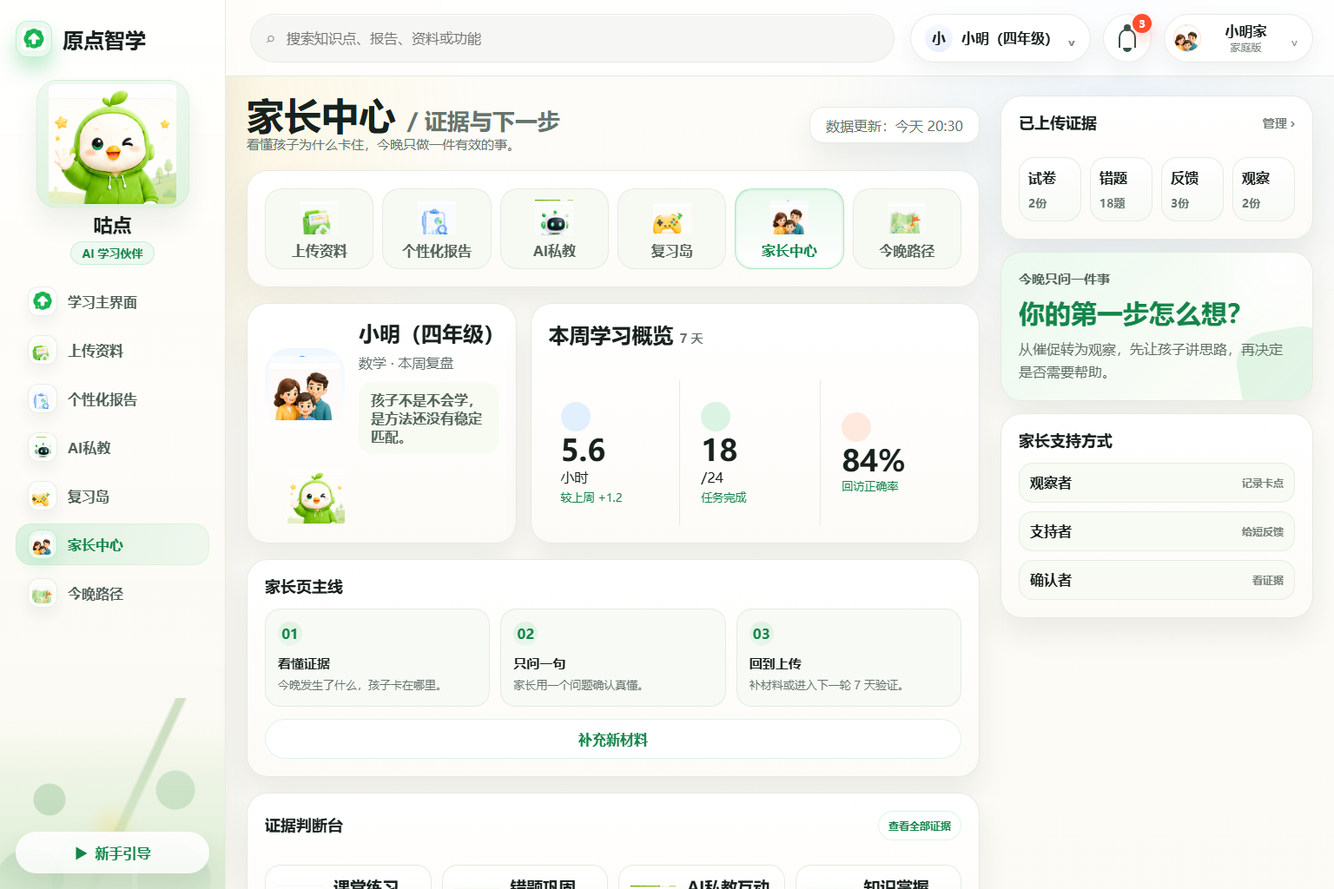
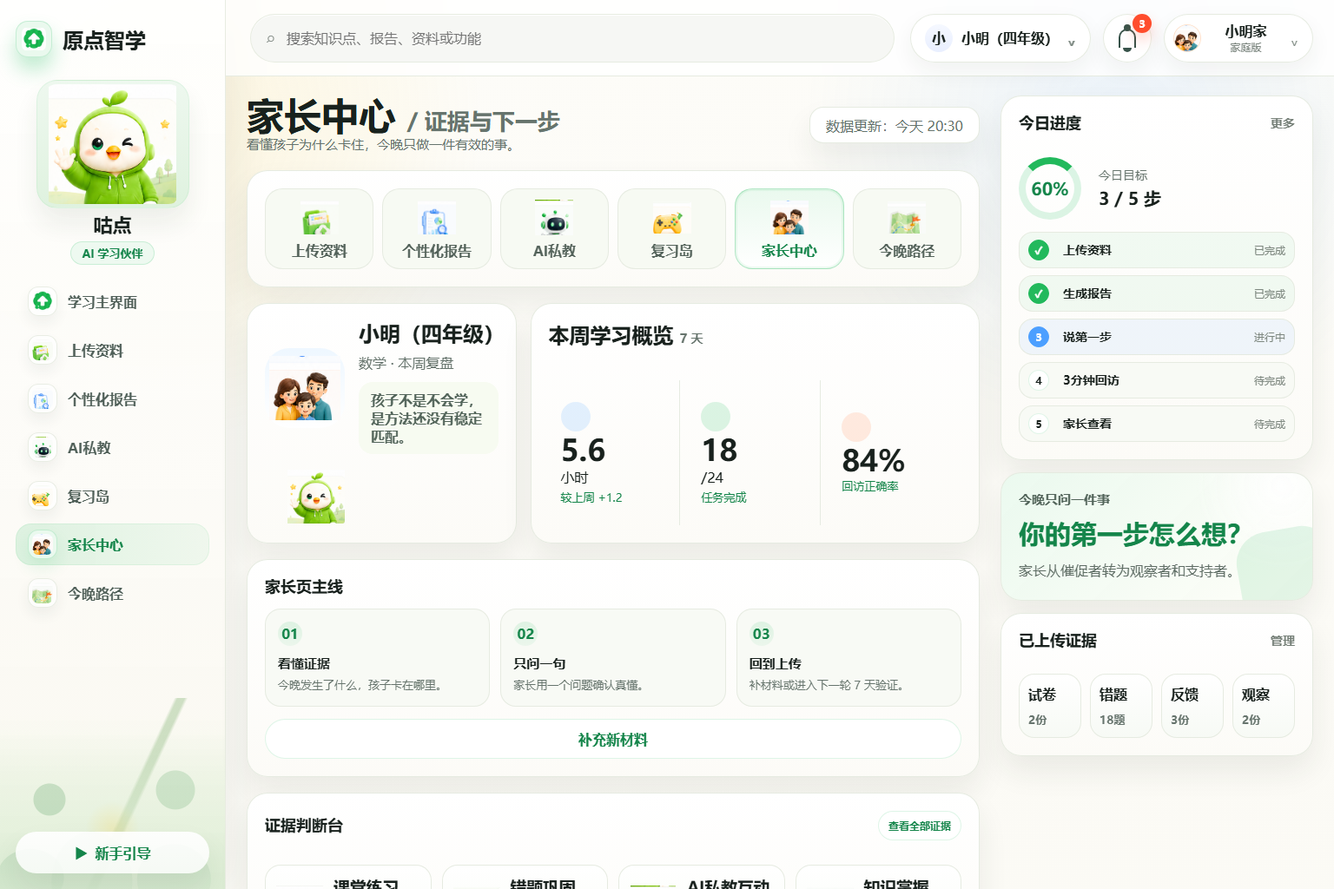
Restore web app Chinese surface

diff --git a/apps/web/src/app.js b/apps/web/src/app.js
@@ -8,7 +8,6 @@ import {
 } from './view-model.js';
 
 const assetBase = document.querySelector('meta[name="web-app-asset-base"]')?.content || './assets/brand';
-const asset = (name) => `${assetBase.replace(/\/$/, '')}/${name}`;
 const referenceAsset = (name) => `${assetBase.replace(/\/brand\/?$/, '/reference').replace(/\/$/, '')}/${name}`;
 
 const routes = [
@@ -28,7 +27,7 @@ const mobileLabels = {
   tutor: '私教',
   review: '复习',
   parent: '家长',
-  map: '地图'
+  map: '路径'
 };
 
 const state = {
@@ -50,7 +49,7 @@ function setActive(id) {
 function routeForSearch(value) {
   const text = String(value || '').toLowerCase();
   if (/上传|资料|文件|错题|成绩|测评|pdf|照片/.test(text)) return 'upload';
-  if (/报告|分析|天赋|学习画像|导出/.test(text)) return 'report';
+  if (/报告|分析|天赋|画像|导出/.test(text)) return 'report';
   if (/私教|ai|答疑|第一步|苏格拉底|追问/.test(text)) return 'tutor';
   if (/复习|游戏|回访|挑战|变式|记忆/.test(text)) return 'review';
   if (/家长|家庭|父母|证据|今晚问什么/.test(text)) return 'parent';
@@ -99,7 +98,7 @@ function sceneSwitch(activeId) {
 function rightRail() {
   const progressCard = `
     <article class="rail-card rail-progress">
-      <div class="card-head"><h3>今日进度</h3><a href="#parent">更多 ›</a></div>
+      <div class="card-head"><h3>今日进度</h3><a href="#parent">更多</a></div>
       <div class="progress-summary"><div class="ring"><b>60%</b></div><div><span>今日目标</span><strong>3 / 5 步</strong></div></div>
       <ol class="step-list">
         ${state.progress.map((item, index) => `<li class="${item.done ? 'done' : item.active ? 'active' : 'todo'}"><span>${item.done ? '✓' : index + 1}</span><b>${item.label}</b><em>${item.done ? '已完成' : item.active ? '进行中' : '待完成'}</em></li>`).join('')}
@@ -107,41 +106,31 @@ function rightRail() {
     </article>`;
   const evidenceCard = `
     <article class="rail-card rail-evidence-card">
-      <div class="card-head"><h3>已上传证据</h3><a href="#upload">管理 ›</a></div>
+      <div class="card-head"><h3>已上传证据</h3><a href="#upload">管理</a></div>
       <div class="evidence-strip"><span>试卷<small>2份</small></span><span>错题<small>18题</small></span><span>反馈<small>3份</small></span><span>观察<small>2份</small></span></div>
     </article>`;
-
-  const rails = {
-    upload: `${progressCard}
-      <article class="rail-card rail-focus-card green"><b>资料完整度</b><strong>75%</strong><p>成绩、错题和测评已具备，可以生成报告；补充老师反馈后置信度更高。</p></article>
-      <article class="rail-card"><h3>分类优先级</h3><div class="rail-list"><span>天赋测评 <em>画像起点</em></span><span>成绩单 <em>真实表现</em></span><span>错题照片 <em>卡点证据</em></span></div></article>`,
-    report: `${evidenceCard}
-      <article class="rail-card rail-focus-card blue"><b>报告可信度</b><strong>较高</strong><p>测评只做假设，成绩和错题负责交叉验证，避免把标签当定论。</p></article>
-      <article class="rail-card"><h3>方法匹配</h3><div class="rail-tags"><span>费曼复述</span><span>苏格拉底追问</span><span>错因归因</span><span>变式训练</span></div></article>`,
-    tutor: `<article class="rail-card rail-focus-card orange"><b>本题关联弱点</b><strong>多步计算顺序</strong><p>合并同类数量时容易遗漏或重复，先说第一步比直接算答案更重要。</p></article>
-      <article class="rail-card"><h3>提示边界</h3><div class="rail-list"><span>不代写答案 <em>只追问下一步</em></span><span>记录卡点 <em>回流复习</em></span></div></article>`,
-    review: `${progressCard}
-      <article class="rail-card rail-focus-card yellow"><b>今日挑战</b><strong>12 个知识点</strong><p>只奖励真实回忆和迁移，不奖励机械刷题。</p></article>
-      <article class="rail-card"><h3>复习覆盖点</h3><div class="rail-tags"><span>主动回忆</span><span>小变式</span><span>错因复盘</span><span>家长确认</span></div></article>`,
-    parent: `${evidenceCard}
-      <article class="rail-card rail-focus-card green"><b>今晚只问一件事</b><strong>你的第一步怎么想？</strong><p>从催促转为观察，先让孩子讲思路，再决定是否需要帮助。</p></article>
-      <article class="rail-card"><h3>家长支持方式</h3><div class="rail-list"><span>观察者 <em>记录卡点</em></span><span>支持者 <em>给短反馈</em></span><span>确认者 <em>看证据</em></span></div></article>`,
-    map: `${progressCard}
-      <article class="rail-card rail-focus-card blue"><b>本周路径</b><strong>3 / 6</strong><p>当前停在 AI 点拨，完成后进入复习回访和家长复盘。</p></article>
-      <article class="rail-card"><h3>未来 7 天</h3><div class="rail-list"><span>明天 <em>复习回访</em></span><span>第 3 天 <em>薄弱专项</em></span><span>第 7 天 <em>家长复盘</em></span></div></article>`
-  };
-
-  return rails[state.active] || `${progressCard}${evidenceCard}
-    <article class="rail-card"><h3>连续学习</h3><div class="streak"><strong>7</strong><span>天</span><p>保持短周期反馈，孩子会更愿意继续。</p></div></article>
-    <article class="rail-card warm"><h3>家长小提醒</h3><p>今晚不要追问分数，先问：这道题你读懂了什么？需要我帮你检查哪里？</p></article>`;
+  const focus = {
+    upload: ['资料完整度', '75%', '成绩、错题和测评已具备；补充老师反馈后置信度更高。', 'green'],
+    report: ['报告可信度', '较高', '测评只做假设，成绩和错题负责交叉验证。', 'blue'],
+    tutor: ['本题关联弱点', '多步计算顺序', '先让孩子说第一步，比直接算答案更重要。', 'orange'],
+    review: ['今日挑战', '12 个知识点', '只奖励真实回忆和迁移，不鼓励机械刷题。', 'yellow'],
+    parent: ['今晚只问一件事', '你的第一步怎么想？', '家长从催促者转为观察者和支持者。', 'green'],
+    map: ['本周路径', '3 / 6', '当前停在 AI 点拨，完成后进入复习回访和家长复盘。', 'blue']
+  }[state.active];
+  if (!focus) {
+    return `${progressCard}${evidenceCard}
+      <article class="rail-card"><h3>连续学习</h3><div class="streak"><strong>7</strong><span>天</span><p>保持短周期反馈，孩子会更愿意继续。</p></div></article>
+      <article class="rail-card warm"><h3>家长小提醒</h3><p>今晚不要追问分数，先问：这道题你读懂了什么？需要我帮你检查哪里？</p></article>`;
+  }
+  return `${progressCard}<article class="rail-card rail-focus-card ${focus[3]}"><b>${focus[0]}</b><strong>${focus[1]}</strong><p>${focus[2]}</p></article>${evidenceCard}`;
 }
 
 function renderHome() {
   return `
-    <section class="page-title home-title-row"><h1>今晚从哪一步开始？</h1><a href="#report">查看完整报告 ›</a></section>
+    <section class="page-title home-title-row"><h1>今晚从哪一步开始？</h1><a href="#report">查看完整报告</a></section>
     <section class="hero-grid">
-      <article class="buddy-message card"><div class="speech"><h1 class="mobile-hero-title">今晚先做哪一步？</h1><h2>晚上好，小明！</h2><p>今天坚持学习，就能离目标更近一步。</p><div class="chip-row"><span><i class="chip-dot"></i>连续学习 7 天</span><span>今晚 15-20 分钟</span></div></div><img class="mascot-img hero-avatar" src="${referenceAsset('hero-mascot.png')}" alt="咕点"></article>
-      <article class="report-preview card"><div class="card-head"><h3>个性化报告 <small>预览</small></h3><a href="#report">查看 ›</a></div><div class="preview-body"><div class="mini-radar"><span>知识掌握</span><span>思维能力</span><span>学习习惯</span><span>学习动力</span><span>应用迁移</span><span>基础技能</span><div class="radar-shape"></div></div><div class="tag-column"><b>优势</b><span>逻辑思维强</span><span>阅读理解好</span><b class="danger">待提升</b><span class="orange">计算准确率</span><span class="orange">审题习惯</span><p>下一步：先巩固计算准确率，3 天后回访。</p></div></div></article>
+      <article class="buddy-message card"><div class="speech"><h1 class="mobile-hero-title">今晚先做哪一步？</h1><h2>晚上好，小明</h2><p>今天不用把所有信息摊开，只先找到最有效的一小步。</p><div class="chip-row"><span><i class="chip-dot"></i>连续学习 7 天</span><span>今晚 15-20 分钟</span></div></div><img class="mascot-img hero-avatar" src="${referenceAsset('hero-mascot.png')}" alt="咕点"></article>
+      <article class="report-preview card"><div class="card-head"><h3>个性化报告 <small>预览</small></h3><a href="#report">查看</a></div><div class="preview-body"><div class="mini-radar"><span>知识掌握</span><span>思维能力</span><span>学习习惯</span><span>学习动力</span><span>应用迁移</span><span>基础技能</span><div class="radar-shape"></div></div><div class="tag-column"><b>优势</b><span>逻辑思维强</span><span>阅读理解好</span><b class="danger">待提升</b><span class="orange">计算准确率</span><span class="orange">审题习惯</span><p>下一步：先巩固计算准确率，3 天后回访。</p></div></div></article>
     </section>
     <section class="entry-grid">
       ${WEB_ENTRY_CARDS.map((card) => `<button class="entry-card ${card.tone}" type="button" data-route="${card.id}"><img class="entry-visual" src="${referenceAsset(card.image)}" alt=""><div class="entry-copy"><strong>${card.number}</strong><h2>${card.title}</h2><p>${card.desc}</p></div><span class="jump">›</span></button>`).join('')}
@@ -152,11 +141,11 @@ function renderHome() {
 
 function renderUpload() {
   const materialTypes = [
-    ['天赋测评', '皮纹、多元智能、学习风格，用来形成初始画像。', 'entry-report.png', 'green'],
-    ['成绩单', '总分、单科、排名和趋势，用来交叉验证。', 'entry-upload.png', 'blue'],
-    ['错题照片', '识别概念错、条件漏、模型错、计算错。', 'entry-review.png', 'orange'],
-    ['学校反馈', '补充课堂状态、表达习惯和作业过程。', 'entry-parent.png', 'green'],
-    ['家长观察', '记录动力、注意力、亲子沟通与作息。', 'hero-mascot.png', 'yellow']
+    ['天赋测评', '形成学习画像起点，不当作命运定论。', 'entry-report.png', 'green'],
+    ['成绩单', '用真实表现验证学科优先级。', 'entry-upload.png', 'blue'],
+    ['错题照片', '定位概念错、条件漏、模型错、计算错。', 'entry-review.png', 'orange'],
+    ['学校反馈', '补充课堂状态和作业过程。', 'entry-parent.png', 'green'],
+    ['家长观察', '记录动力、注意力、亲子沟通和作息。', 'hero-mascot.png', 'yellow']
   ];
   return `
     <section class="page-title"><div><h1>上传资料</h1><p>先把测评、成绩、错题和观察分清楚，后续报告才有可信证据链。</p></div><button class="soft-button" data-action="mock-upload">选择文件</button></section>
@@ -164,35 +153,34 @@ function renderUpload() {
     <section class="upload-console"><article class="upload-drop card"><div><h2>拖拽文件到这里，或点击选择文件</h2><p>支持多文件同时上传。无法解析的材料会进入人工确认，不中断生成流程。</p><div class="upload-format-row"><span>图片<small>JPG / PNG</small></span><span>PDF<small>测评报告</small></span><span>Word<small>老师反馈</small></span><span>Excel<small>成绩表</small></span></div><button class="primary-cta" data-action="mock-upload">选择文件</button><em>也可以先粘贴文字摘要。</em></div><img class="upload-art-img" src="${referenceAsset('entry-upload.png')}" alt="上传资料"></article></section>
     ${pageGuide('upload')}
     <section><div class="section-title"><h2>选择资料类型 <small>可多选</small></h2><p>分类越准，报告里的证据来源越清晰。</p></div><div class="type-grid upload-type-row">${materialTypes.map(([title, desc, image, tone]) => `<button class="type-card visual ${tone}" data-action="select-material"><img src="${referenceAsset(image)}" alt=""><b>${title}</b><span>${desc}</span></button>`).join('')}</div></section>
-    <section class="card table-card"><div class="card-head"><h3>最近上传的资料</h3><a href="#report">查看报告 ›</a></div>${state.uploads.map((item) => `<div class="upload-row"><b>${item.file}<small>${item.size}</small></b><em>${item.type}</em><strong>${item.status}</strong><button data-route="report">查看</button></div>`).join('')}</section>
+    <section class="card table-card"><div class="card-head"><h3>最近上传的资料</h3><a href="#report">查看报告</a></div>${state.uploads.map((item) => `<div class="upload-row"><b>${item.file}<small>${item.size}</small></b><em>${item.type}</em><strong>${item.status}</strong><button data-route="report">查看</button></div>`).join('')}</section>
     <section class="intake-pipeline card"><h2>上传后的标准 SOP</h2><div class="guide-steps">${WEB_MATERIAL_PIPELINE.map(([title, desc], index) => `<div><i>${index + 1}</i><b>${title}</b><p>${desc}</p></div>`).join('')}</div></section>
   `;
 }
 
 function renderReport() {
   const evidence = [
-    ['成绩单', '数学单元测验 82 分', '逻辑推理题得分率高，计算题仍有失分。', 'green'],
+    ['成绩单', '数学单元测验 82 分', '推理题得分高，计算题仍有失分。', 'green'],
     ['错题本', '条件漏读 12 道', '失分集中在审题、单位和步骤表达。', 'orange'],
-    ['老师反馈', '课堂表达积极', '能主动提问，思路清晰，适合讲出来学。', 'green'],
-    ['家长观察', '短任务完成稳定', '长任务需要可见进度和短反馈。', 'blue']
+    ['老师反馈', '课堂表达积极', '能主动提问，适合讲出来学。', 'green'],
+    ['家长观察', '短任务稳定', '长任务需要可见进度和短反馈。', 'blue']
   ];
   return `
-    <section class="page-title report-title"><div><h1>个性化报告</h1><p>先看证据，再看天赋、成绩与方法如何匹配。</p></div><button class="soft-button" data-action="print-report">下载 PDF 报告</button></section>
+    <section class="page-title report-title"><div><h1>个性化报告</h1><p>先看证据，再看天赋、成绩与学习方法如何匹配。</p></div><button class="soft-button" data-action="print-report">下载 PDF 报告</button></section>
     ${sceneSwitch('report')}
-    <section class="report-hero pro card"><article class="student-id-card"><div class="student-avatar"><span>小</span></div><div><h2>小明（四年级）</h2><p>原点智学样例档案</p><div class="report-meta"><span>学习时长 <b>4.2</b> 小时/天</span><span>报告周期 <b>7 天</b></span><span>资料来源 <b>12</b> 项</span></div></div><img src="${referenceAsset('entry-report.png')}" alt="报告预览"></article><article class="ability-panel"><div class="card-head"><h3>能力雷达图</h3><span>本周水平</span></div><div class="radar-with-labels"><span>知识掌握</span><span>思维能力</span><span>学习习惯</span><span>学习动力</span><span>应用迁移</span><span>基础技能</span><div class="radar-shape strong"></div></div></article></section>
+    <section class="report-hero pro card"><article class="student-id-card"><div class="student-avatar"><span>小</span></div><div><h2>小明（四年级）</h2><p>原点智学样例档案</p><div class="report-meta"><span>学习时长 <b>4.2</b> 小时/天</span><span>报告周期 <b>7</b> 天</span><span>资料来源 <b>12</b> 项</span></div></div><img src="${referenceAsset('entry-report.png')}" alt="报告预览"></article><article class="ability-panel"><div class="card-head"><h3>能力雷达图</h3><span>本周水平</span></div><div class="radar-with-labels"><span>知识掌握</span><span>思维能力</span><span>学习习惯</span><span>学习动力</span><span>应用迁移</span><span>基础技能</span><div class="radar-shape strong"></div></div></article></section>
+    <section class="evidence-band card"><div class="card-head"><h3>证据来源与置信度</h3><button class="soft-button mini" data-action="share-report">分享给家长</button></div><div class="evidence-band-grid">${evidence.map(([title, score, note, tone]) => `<article class="${tone}"><b>${title}</b><strong>${score}</strong><p>${note}</p></article>`).join('')}</div></section>
+    <section class="confidence-board card"><h2>置信度边界</h2><div class="confidence-grid">${WEB_CONFIDENCE_BANDS.map(([title, source, rule]) => `<article><b>${title}</b><span>${source}</span><p>${rule}</p></article>`).join('')}</div></section>
+    <section class="diagnostic-grid">${['听觉复述', '费曼学习法', '苏格拉底追问', '错因归因', '变式训练', '短周期反馈'].map((method, index) => `<article class="diagnostic-card card"><strong>${method}</strong><p>${index < 3 ? '匹配孩子当前优势，用输出验证理解。' : '补偿当前待开发点，用证据验证是否有效。'}</p><button class="soft-button mini" data-route="${index === 2 ? 'tutor' : 'review'}">去执行</button></article>`).join('')}</section>
     ${pageGuide('report')}
-    <section class="report-insight card"><div><h2>思维活跃、表达清晰，逻辑推理是闪光点。</h2><p>当前成绩没有完全兑现潜力，主要原因不是“不适合学”，而是方法还没有稳定匹配：审题和步骤表达需要用复述、追问和变式来补偿。</p></div><img src="${referenceAsset('hero-mascot.png')}" alt="咕点鼓励"></section>
-    <section class="evidence-band card"><div class="section-title compact"><h2>证据来源</h2><p>测评是画像起点，不是命运定论；真实成绩和错题优先级更高。</p></div><div class="evidence-band-grid">${evidence.map(([label, title, desc, tone]) => `<article class="${tone}"><b>${label}</b><strong>${title}</strong><p>${desc}</p></article>`).join('')}</div></section>
-    <section class="confidence-board card"><h2>置信度分层</h2><div class="guide-steps">${WEB_CONFIDENCE_BANDS.map(([title, source, desc], index) => `<div><i>${index + 1}</i><b>${title}</b><p>${source}：${desc}</p></div>`).join('')}</div></section>
-    <section class="method-match card pro"><div><h2>天赋 × 成绩 × 方法</h2><p>听觉理解较好、表达积极，但计算和审题有波动，因此优先采用“听讲复述 + 苏格拉底追问 + 错因归因 + 小变式”。</p></div><div class="match-flow"><span>听觉理解好</span><i></i><span>数学波动</span><i></i><span>条件漏读</span><i></i><span>复述 + 追问</span></div><button class="primary-cta" data-action="share-report">分享报告</button></section>
   `;
 }
 
 function renderTutor() {
   return `
-    <section class="page-title tutor-title"><div><h1>AI私教 <small>/ 先说第一步</small></h1><p>不直接给答案，先追问、再引导，让孩子把思路讲出来。</p></div></section>
+    <section class="page-title"><div><h1>AI私教</h1><p>只追问第一步、依据和反例，不代写完整答案。</p></div><button class="soft-button" data-route="review">去复习岛</button></section>
     ${sceneSwitch('tutor')}
-    <section class="tutor-lab"><article class="chat-card tutor-chat card"><div class="chat-head"><img class="chat-avatar" src="${referenceAsset('hero-mascot.png')}" alt="咕点"><div><h2>咕点</h2><p>像朋友一样陪你想，不替你写答案。</p></div><span>AI</span></div><div class="bubble coach">遇到难题很正常。先说说：你准备从哪一步开始？</div><div class="bubble me">我先算一共用了多少米彩带。</div><div class="bubble coach">很好。那你准备把哪几部分加在一起？</div><div class="chat-actions"><button class="soft-button" data-action="tutor-stuck">我有点卡住</button><button class="soft-button" data-action="tutor-hint">给我一点提示</button><button class="soft-button" data-action="tutor-retry">我想再试一次</button></div><div class="input-line"><input id="tutorInput" placeholder="告诉我你的想法..."><button data-action="send-tutor">发送</button></div><p class="tutor-boundary">边界：只做思路提示和追问，不提供整题代写。</p></article><article class="problem-board card"><div class="card-head"><h3>题目与思路板</h3><button class="soft-button mini" data-action="tutor-hint">提示</button></div><div class="problem-card"><span>应用题</span><p>活动场地买了红色 45 米、蓝色 27 米、黄色 18 米彩带。一共买了多少米？</p><b>先想：要求“一共”，要把哪些数量合并在一起？</b></div><div class="board-and-ladder"><div class="thinking-canvas"><h3>我的思路</h3><div class="canvas-empty">写下你的步骤、图示或列式。</div></div><div class="hint-ladder"><h3>提示阶梯</h3><ol><li class="active"><b>第 1 步</b><p>先理解题目问什么。</p></li><li><b>第 2 步</b><p>找出需要合并的数量。</p></li><li><b>第 3 步</b><p>列式并检查结果。</p></li></ol></div></div></article></section>
+    <section class="tutor-lab"><article class="chat-card card"><div class="chat-head"><img src="${referenceAsset('entry-tutor.png')}" alt=""><div><h2>苏格拉底第一问</h2><p>先让孩子说出准备从哪里开始。</p></div></div><div class="chat-window"><div class="bubble coach">这道题问“一共”，你先准备把哪些数量放在一起？</div><div class="bubble me">我先算三种彩带一共有多少米。</div><div class="bubble coach">很好。那你会先写哪一个式子？为什么？</div></div><div class="chat-actions"><button class="soft-button" data-action="tutor-stuck">我有点卡住</button><button class="soft-button" data-action="tutor-hint">给我一点提示</button><button class="soft-button" data-action="tutor-retry">我想再试一次</button></div><div class="input-line"><input id="tutorInput" placeholder="告诉我你的想法..."><button data-action="send-tutor">发送</button></div><p class="tutor-boundary">边界：只做思路提示和追问，不提供整题代写。</p></article><article class="problem-board card"><div class="card-head"><h3>题目与思路板</h3><button class="soft-button mini" data-action="tutor-hint">提示</button></div><div class="problem-card"><span>应用题</span><p>活动场地买了红色 45 米、蓝色 27 米、黄色 18 米彩带。一共买了多少米？</p><b>先想：要求“一共”，要把哪些数量合并？</b></div><div class="board-and-ladder"><div class="thinking-canvas"><h3>我的思路</h3><div class="canvas-empty">写下你的步骤、图示或列式。</div></div><div class="hint-ladder"><h3>提示阶梯</h3><ol><li class="active"><b>第 1 步</b><p>先理解题目问什么。</p></li><li><b>第 2 步</b><p>找出需要合并的数量。</p></li><li><b>第 3 步</b><p>列式并检查结果。</p></li></ol></div></div></article></section>
     ${pageGuide('tutor')}
   `;
 }
@@ -202,12 +190,12 @@ function renderReview() {
     ['回忆关', '巩固基础，快速回忆。', 'entry-report.png', 'green', '奖励 10 星'],
     ['迁移关', '学以致用，灵活迁移。', 'entry-map.png', 'blue', '奖励 15 星'],
     ['变式挑战', '换一种问法验证方法。', 'entry-review.png', 'yellow', '奖励 20 星'],
-    ['错因复盘', '把错误变成下一次的检查清单。', 'entry-tutor.png', 'orange', '奖励 25 星']
+    ['错因复盘', '把错误变成检查清单。', 'entry-tutor.png', 'orange', '奖励 25 星']
   ];
   return `
     <section class="page-title review-title"><div><h1>复习岛</h1><p>3 分钟回访，把错因变成主动回忆和变式验证。</p></div><article class="review-buddy-card"><img src="${referenceAsset('hero-mascot.png')}" alt="咕点"><div><b>今天有 12 个知识点</b><span>先回忆，再变式，最后复盘。</span></div></article></section>
     ${sceneSwitch('review')}
-    <section class="review-world card"><div class="world-path"><span></span></div><div class="world-node node-1 done"><img src="${referenceAsset('entry-report.png')}" alt=""><b>回忆关</b><em>已完成</em></div><div class="world-node node-2 done"><img src="${referenceAsset('entry-map.png')}" alt=""><b>迁移关</b><em>已完成</em></div><div class="world-node node-3 active"><img src="${referenceAsset('entry-review.png')}" alt=""><b>变式挑战</b><em>进行中</em></div><div class="world-node node-4"><img src="${referenceAsset('entry-tutor.png')}" alt=""><b>错因复盘</b><em>待解锁</em></div><button class="world-rule-button" data-action="review-map-info">查看规则</button></section>
+    <section class="review-world card"><div class="world-path"><span></span></div><div class="world-node node-1 done"><img src="${referenceAsset('entry-report.png')}" alt=""><b>回忆关</b><em>已完成</em></div><div class="world-node node-2 done"><img src="${referenceAsset('entry-map.png')}" alt=""><b>迁移关</b><em>已完成</em></div><div class="world-node node-3 active"><img src="${referenceAsset('entry-review.png')}" alt=""><b>变式挑战</b><em>进行中</em></div><div class="world-node node-4 locked"><img src="${referenceAsset('entry-tutor.png')}" alt=""><b>错因复盘</b><em>待解锁</em></div><button class="world-rule-button" data-action="review-map-info">查看规则</button></section>
     ${pageGuide('review')}
     <section class="level-card-grid">${levels.map(([title, desc, image, tone, reward]) => `<button class="level-card ${tone}" data-action="review-level" data-level="${title}"><img src="${referenceAsset(image)}" alt=""><h3>${title}</h3><p>${desc}</p><small>${reward}</small><span>开始挑战</span></button>`).join('')}</section>
     <section class="review-mini-games card"><div class="section-title compact"><h2>趣味小游戏</h2><p>每个小游戏都必须回到错因、回忆或迁移证据。</p></div><div class="mini-game-grid"><button class="mini-game-card" data-action="review-challenge" data-level="变式挑战"><img src="${referenceAsset('entry-review.png')}" alt=""><div><h3>错题消消乐</h3><p>消除错题，赢取星星。</p><strong>1250 星</strong></div><span>去挑战</span></button><button class="mini-game-card" data-action="review-level" data-level="回忆关"><img src="${referenceAsset('entry-report.png')}" alt=""><div><h3>知识拼图</h3><p>拼出知识点图谱。</p><strong>24/56</strong></div><span>去挑战</span></button></div><button class="primary-cta review-main-cta" data-action="start-review">开始今天的挑战</button></section>
@@ -246,7 +234,7 @@ function renderMap() {
     ${sceneSwitch('map')}
     <section class="learning-road card"><div class="road-head"><h2>小明的专属学习旅程</h2><span>本周第 3 天</span></div><div class="road-line"></div>${route.map(([id, num, title, status, image, stateName], index) => `<button class="road-stop stop-${index + 1} ${stateName}" data-route="${id}"><b>${num}</b><strong>${title}</strong><em>${status}</em><img src="${referenceAsset(image)}" alt=""></button>`).join('')}<div class="road-cheer"><img src="${referenceAsset('hero-mascot.png')}" alt="咕点"><p>你已完成 2 个关键节点。完成本周路径后，可以获得学习探索者勋章。</p><button class="soft-button" data-route="review">查看勋章</button></div></section>
     ${pageGuide('map')}
-    <section class="map-info-grid"><article class="task-list card"><h2>本周任务清单 <small>3/6 已完成</small></h2><ul><li class="done">上传学科资料<span>已完成</span></li><li class="done">查看个性化报告<span>已完成</span></li><li class="active">完成 AI 点拨练习<span>进行中</span></li><li>复习回访<span>待开始</span></li><li>家长复盘<span>待开始</span></li></ul><button class="soft-button" data-route="upload">查看全部任务</button></article><article class="future-path card"><h2>未来 7 天路径</h2><ol>${['明天：复习回访', '第 3 天：薄弱专项', '第 5 天：变式训练', '第 7 天：家长复盘'].map((item, index) => `<li class="${index === 0 ? 'active' : ''}">${item}</li>`).join('')}</ol><button class="soft-button" data-route="review">查看完整日程</button></article></section>
+    <section class="map-info-grid"><article class="task-list card"><h2>本周任务清单 <small>3/6 已完成</small></h2><ul><li class="done">上传学科资料<span>已完成</span></li><li class="done">查看个性化报告<span>已完成</span></li><li class="active">完成 AI 点拨练习<span>进行中</span></li><li>复习回访<span>待开始</span></li><li>家长复盘<span>待开始</span></li></ul><button class="soft-button" data-route="upload">查看全部任务</button></article><article class="future-path card"><h2>未来 7 天路径</h2><ol><li class="active">明天：复习回访</li><li>第 3 天：薄弱专项</li><li>第 5 天：变式训练</li><li>第 7 天：家长复盘</li></ol><button class="soft-button" data-route="review">查看完整日程</button></article></section>
   `;
 }
 
@@ -292,14 +280,14 @@ function handleAction(action, target) {
   else if (action === 'start-review') showToast('复习挑战已开始：先回忆，再核对。');
   else if (action === 'review-map-info') showToast('规则：每一关都要留下回忆或迁移证据。');
   else if (action === 'review-level') showToast(`已进入${target?.dataset.level || '复习关卡'}。`);
-  else if (action === 'review-challenge') showToast(`变式挑战已打开：先说第一步再作答。`);
+  else if (action === 'review-challenge') showToast('变式挑战已打开：先说第一步再作答。');
   else if (action === 'parent-question') showToast('今晚问题已保存，明天会回访证据。');
   else if (action === 'parent-proof') showToast('已打开本周修复证据。');
   else if (action === 'parent-proof-all') showToast('已展开全部学习证据。');
   else if (action === 'parent-methods') showToast('已打开家长支持方法清单。');
   else if (action === 'student-menu') showToast('当前为小明（四年级）样例档案。');
   else if (action === 'notifications') showToast('今日有 3 条学习提醒。');
-  else if (action === 'family-menu') showToast('已进入小明家家庭视角。');
+  else if (action === 'family-menu') showToast('已进入小明家庭视角。');
 }
 
 function bindActions() {

diff --git a/apps/web/src/view-model.js b/apps/web/src/view-model.js
@@ -5,15 +5,14 @@ export const WEB_DEMO_STATE = {
     { id: 'upload', label: '上传资料', done: true },
     { id: 'report', label: '生成报告', done: true },
     { id: 'tutor', label: '说第一步', active: true },
-    { id: 'review', label: '3 分钟回访' },
+    { id: 'review', label: '3分钟回访' },
     { id: 'parent', label: '家长查看' }
   ],
   uploads: [
-    { file: '期中数学试卷_小明.jpg', type: '错题照片', size: '2.4MB', status: '分析完成', color: 'orange' },
-    { file: '四年级下学期期末成绩单.pdf', type: '成绩单', size: '1.2MB', status: '分析完成', color: 'blue' },
-    { file: '班主任评语_2024春.pdf', type: '学校反馈', size: '0.9MB', status: '分析完成', color: 'yellow' },
-    { file: '口算练习错题集.mp4', type: '过程记录', size: '15.6MB', status: '分析中', color: 'orange' },
-    { file: '家长观察记录_兴趣与特长.pdf', type: '家长观察', size: '1.1MB', status: '待分析', color: 'green' }
+    { file: '四年级数学单元卷.jpg', type: '错题照片', size: '2.4MB', status: '分析完成', color: 'orange' },
+    { file: '期末成绩单.pdf', type: '成绩单', size: '1.2MB', status: '分析完成', color: 'blue' },
+    { file: '学习风格测评.pdf', type: '天赋测评', size: '0.9MB', status: '分析完成', color: 'green' },
+    { file: '家长观察记录.docx', type: '家长观察', size: '0.6MB', status: '待补充', color: 'yellow' }
   ]
 };
 
@@ -22,7 +21,7 @@ export const WEB_ENTRY_CARDS = [
     id: 'upload',
     number: '01',
     title: '上传资料',
-    desc: '天赋测评、成绩单、错题、老师反馈先进入证据链。',
+    desc: '测评、成绩、错题和反馈先进入证据链。',
     image: 'entry-upload.png',
     tone: 'green'
   },
@@ -30,7 +29,7 @@ export const WEB_ENTRY_CARDS = [
     id: 'report',
     number: '02',
     title: '个性化报告',
-    desc: '看清证据、优势短板和下一步建议。',
+    desc: '解释证据、优势、待开发点和下一步。',
     image: 'entry-report.png',
     tone: 'blue'
   },
@@ -46,7 +45,7 @@ export const WEB_ENTRY_CARDS = [
     id: 'review',
     number: '04',
     title: '复习岛',
-    desc: '把错因变成闯关、回忆和迁移挑战。',
+    desc: '把错因变成回忆、迁移和变式挑战。',
     image: 'entry-review.png',
     tone: 'yellow'
   },
@@ -54,7 +53,7 @@ export const WEB_ENTRY_CARDS = [
     id: 'parent',
     number: '05',
     title: '家长中心',
-    desc: '今晚该问什么，孩子进展如何，下一步怎么做。',
+    desc: '告诉家长今晚问什么、看什么证据。',
     image: 'entry-parent.png',
     tone: 'orange'
   },
@@ -82,8 +81,8 @@ export const WEB_PAGE_GUIDES = {
     title: '报告页主线',
     steps: [
       ['01', '先看证据', '哪些来自材料，哪些只是待验证假设。'],
-      ['02', '匹配方法', '把学习信号映射到苏格拉底、费曼、回忆复习和变式训练。'],
-      ['03', '去执行', '进入AI私教第一问或复习验证。']
+      ['02', '匹配方法', '把学习信号映射到费曼、苏格拉底、回忆复习和变式训练。'],
+      ['03', '去执行', '进入 AI私教第一问或复习验证。']
     ],
     cta: ['tutor', '进入 AI私教']
   },
@@ -115,7 +114,7 @@ export const WEB_PAGE_GUIDES = {
     cta: ['upload', '补充新材料']
   },
   map: {
-    title: '地图页主线',
+    title: '路径页主线',
     steps: [
       ['01', '今晚闭环', '只展示当前最小闭环。'],
       ['02', '未来 7 天', '把回访和变式排进节奏。'],
@@ -126,8 +125,8 @@ export const WEB_PAGE_GUIDES = {
 };
 
 export const WEB_MATERIAL_PIPELINE = [
-  ['材料入口', '天赋测评、成绩单、错题、学校反馈、家长观察先归档。'],
-  ['证据分级', '强证据、弱证据、方法假设分开标注，避免贴标签。'],
+  ['材料入口', '天赋测评、成绩单、错题、学校反馈和家长观察先归档。'],
+  ['证据分级', '强证据、弱证据、方法假设分开标注，避免给孩子贴标签。'],
   ['行动出口', '报告、AI私教、复习和家长问题共用同一组证据。']
 ];
 

diff --git a/apps/web/src/routes.js b/apps/web/src/routes.js
@@ -5,7 +5,7 @@ export const WEB_SURFACE_ROUTES = [
     path: '/',
     miniappParity: 'pages/home/home',
     primaryAction: '选择今晚第一步',
-    promise: '一屏看懂上传、报告、AI私教、复习和家长下一步。'
+    promise: '一屏看懂上传、报告、AI私教、复习岛和家长下一步。'
   },
   {
     id: 'upload',
@@ -13,14 +13,14 @@ export const WEB_SURFACE_ROUTES = [
     path: '/upload',
     miniappParity: 'pages/upload/upload',
     primaryAction: '上传或粘贴材料',
-    promise: '把测评、成绩、错题、学校反馈分门别类变成可分析证据。'
+    promise: '把测评、成绩、错题和反馈分门别类变成可分析证据。'
   },
   {
     id: 'report',
     label: '个性化报告',
     path: '/report',
     miniappParity: 'pages/entry-detail/entry-detail?scene=report + pages/entry-detail/entry-detail?scene=parent + pages/profile/profile',
-    primaryAction: '查看报告与导出 PDF',
+    primaryAction: '查看报告并导出 PDF',
     promise: '先讲证据，再讲天赋和方法匹配，最后给家长今晚能做的一步。'
   },
   {
@@ -53,7 +53,7 @@ export const WEB_SURFACE_ROUTES = [
     path: '/map',
     miniappParity: 'pages/entry-detail/entry-detail?scene=today + pages/review/review',
     primaryAction: '查看今晚和未来 7 天路径',
-    promise: '把上传、报告、AI私教、复习和家长回访串成一条能走完、能验证的学习路线。'
+    promise: '把上传、报告、AI私教、复习和家长回访串成一条能走完的学习路线。'
   }
 ];
 

diff --git a/app/index.html b/app/index.html
@@ -17,7 +17,7 @@
         </a>
 
         <section class="buddy-card">
-          <div class="mascot mascot-side" role="img" aria-label="咕点"></div>
+          <img class="mascot-img mascot-side" src="/apps/web/assets/reference/hero-mascot.png" alt="咕点" />
           <strong>咕点</strong>
           <span>AI 学习伙伴</span>
         </section>
